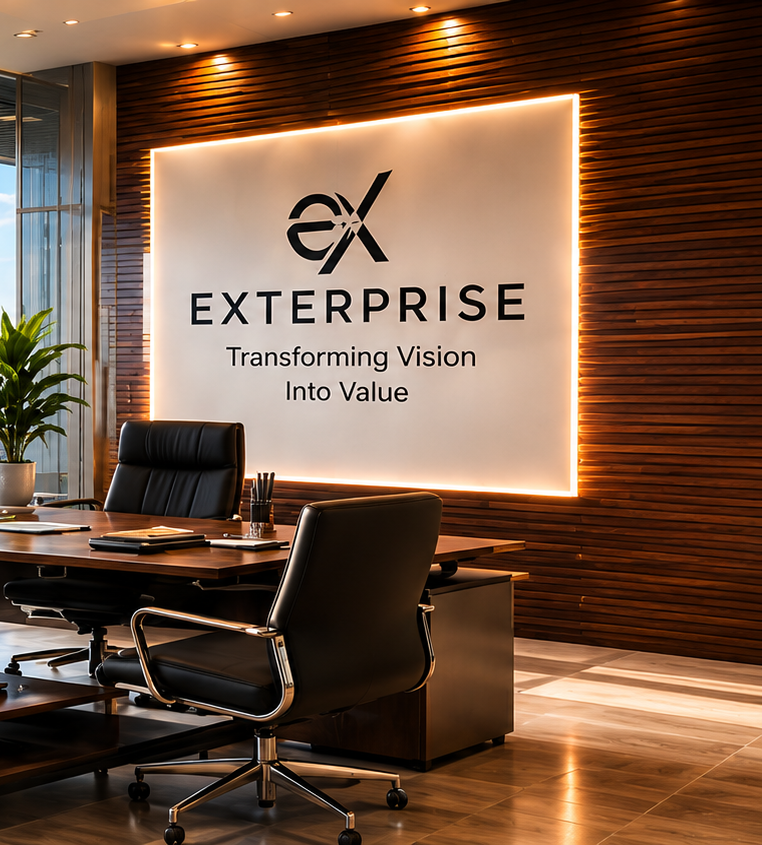
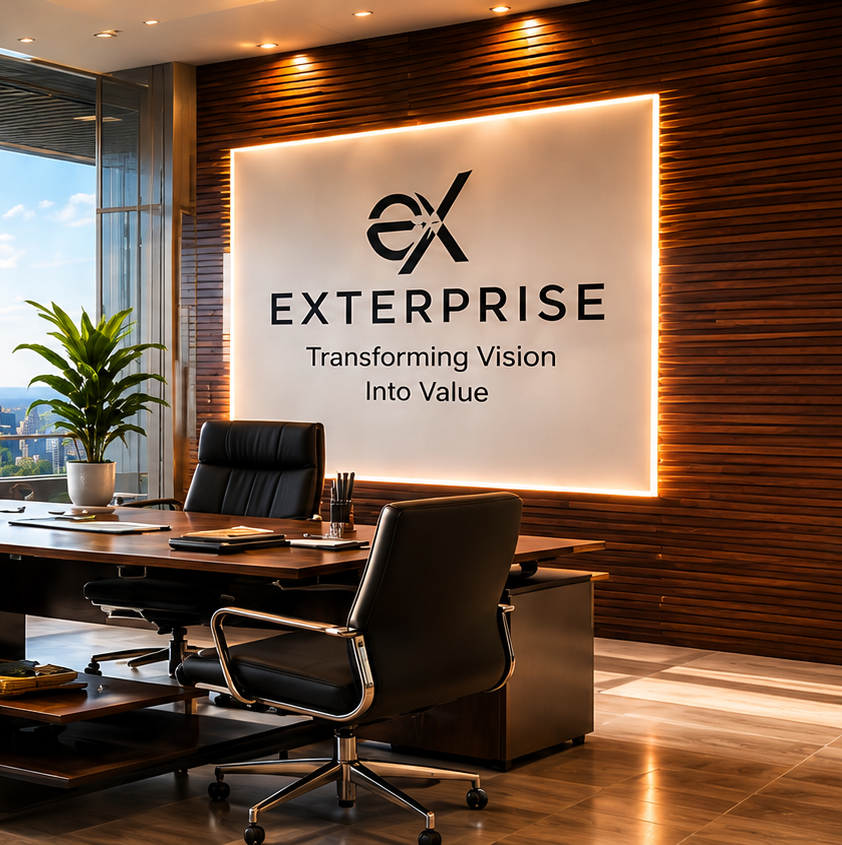
Update Entrepreneurship section to align pixel-perfectly with design mockup

diff --git a/src/App.tsx b/src/App.tsx
@@ -295,86 +295,107 @@ function App() {
       </section>
 
       {/* Entrepreneurship Section */}
-      <section id="entrepreneurship" className="section" style={{ background: '#FAF8F5', padding: '80px 0' }}>
+      <section id="entrepreneurship" className="section" style={{ background: '#eee5db', padding: '80px 0' }}>
         <div className="container">
-          {/* Header */}
-          <div style={{ textAlign: 'center', marginBottom: '60px' }}>
-            <span className="section-tag" style={{ color: 'var(--accent-red)', fontSize: '12px', letterSpacing: '3px', display: 'block', marginBottom: '15px' }}>
-              VISION & LEADERSHIP
-            </span>
-            <h2 className="section-heading" style={{ fontSize: '42px', color: '#1a202c', fontFamily: 'Outfit, sans-serif', fontWeight: 700, margin: 0 }}>
-              Entrepreneurship
-            </h2>
-          </div>
-          
-          {/* Content Grid */}
-          <div style={{ display: 'grid', gridTemplateColumns: '1fr 1fr', gap: '70px', marginBottom: '60px' }}>
-            {/* Left column - first 3 items */}
-            <div style={{ display: 'flex', flexDirection: 'column', gap: '40px' }}>
-              <div style={{ display: 'flex', gap: '25px', alignItems: 'flex-start' }}>
-                <span style={{ color: 'var(--accent-red)', fontSize: '20px', lineHeight: '1', flexShrink: 0 }}>★</span>
-                <p style={{ color: '#1a202c', fontSize: '13px', lineHeight: '1.7', margin: 0, opacity: 0.9 }}>
-                  Founder & CEO of Exterprise Solutions - an award-winning enterprise technology firm helping businesses innovate, transform and grow.
-                </p>
-              </div>
+          <div className="ent-wrapper" style={{
+            display: 'flex',
+            background: '#fdfcf7',
+            border: '1px solid rgba(212, 175, 55, 0.3)',
+            boxShadow: '0 10px 30px rgba(0,0,0,0.05)',
+            borderRadius: '8px',
+            overflow: 'hidden'
+          }}>
+            {/* Left side text and details */}
+            <div className="ent-left" style={{ flex: '0 0 55%', padding: '40px', background: '#fdfcf7' }}>
+              <span className="section-tag" style={{ color: 'var(--accent-red)', fontSize: '11px', letterSpacing: '2px', display: 'block', marginBottom: '8px', textAlign: 'left' }}>VISION & LEADERSHIP</span>
+              <h2 className="section-heading" style={{ fontSize: '32px', color: '#0f2942', fontFamily: 'Outfit, sans-serif', fontWeight: '800', marginTop: '5px', marginBottom: '15px', textTransform: 'uppercase', textAlign: 'left' }}>Entrepreneurship</h2>
               
-              <div style={{ display: 'flex', gap: '25px', alignItems: 'flex-start' }}>
-                <span style={{ color: 'var(--accent-red)', fontSize: '20px', lineHeight: '1', flexShrink: 0 }}>★</span>
-                <p style={{ color: '#1a202c', fontSize: '13px', lineHeight: '1.7', margin: 0, opacity: 0.9 }}>
-                  Specializing in Digital Transformation, AI, Data & Analytics, Cloud, and Enterprise Solutions.
-                </p>
-              </div>
+              <div style={{ color: 'var(--accent-red)', margin: '5px 0 20px 0', borderBottom: '1px solid rgba(0,0,0,0.1)', paddingBottom: '10px', textAlign: 'left' }}>★</div>
               
-              <div style={{ display: 'flex', gap: '25px', alignItems: 'flex-start' }}>
-                <span style={{ color: 'var(--accent-red)', fontSize: '20px', lineHeight: '1', flexShrink: 0 }}>★</span>
-                <p style={{ color: '#1a202c', fontSize: '13px', lineHeight: '1.7', margin: 0, opacity: 0.9 }}>
-                  Trusted by global clients to deliver scalable, future-ready solutions.
-                </p>
-              </div>
-            </div>
-            
-            {/* Right column - next 3 items */}
-            <div style={{ display: 'flex', flexDirection: 'column', gap: '40px' }}>
-              <div style={{ display: 'flex', gap: '25px', alignItems: 'flex-start' }}>
-                <span style={{ color: 'var(--accent-red)', fontSize: '20px', lineHeight: '1', flexShrink: 0 }}>★</span>
-                <p style={{ color: '#1a202c', fontSize: '13px', lineHeight: '1.7', margin: 0, opacity: 0.9 }}>
-                  Presence across 3 Continents - North America, Asia, and Australia.
-                </p>
-              </div>
-              
-              <div style={{ display: 'flex', gap: '25px', alignItems: 'flex-start' }}>
-                <span style={{ color: 'var(--accent-red)', fontSize: '20px', lineHeight: '1', flexShrink: 0 }}>★</span>
-                <p style={{ color: '#1a202c', fontSize: '13px', lineHeight: '1.7', margin: 0, opacity: 0.9 }}>
-                  Supporting communities and people through mentorship, employment, and philanthropy.
-                </p>
-              </div>
-              
-              <div style={{ display: 'flex', gap: '25px', alignItems: 'flex-start' }}>
-                <span style={{ color: 'var(--accent-red)', fontSize: '20px', lineHeight: '1', flexShrink: 0 }}>★</span>
-                <p style={{ color: '#1a202c', fontSize: '13px', lineHeight: '1.7', margin: 0, opacity: 0.9 }}>
-                  Believing in giving back and creating opportunities for all.
-                </p>
-              </div>
-            </div>
-          </div>
-          
-          {/* Map and Office Row */}
-          <div style={{ display: 'grid', gridTemplateColumns: '1fr 1fr', gap: '40px', alignItems: 'center' }}>
-            {/* Left: Map */}
-            <div>
-              <p style={{ fontSize: '13px', textTransform: 'uppercase', letterSpacing: '3px', color: '#1a202c', fontWeight: 'bold', marginBottom: '20px', textAlign: 'center', fontFamily: 'Montserrat, sans-serif' }}>
-                PRESENCE ACROSS 3 CONTINENTS
+              <p style={{ color: '#0f2942', fontSize: '16px', fontWeight: '700', lineHeight: '1.6', marginBottom: '25px', textAlign: 'left', fontFamily: 'Outfit, sans-serif' }}>
+                Founder & CEO of Exterprise Solutions – an award-winning enterprise technology firm helping businesses innovate, transform and grow.
               </p>
-              <div style={{ position: 'relative' }}>
-                <img src="/assets/presence_map.png" alt="Exterprise Global Presence Map" style={{ width: '100%', display: 'block' }} />
+              
+              {/* Bullets & Map sub-row */}
+              <div className="ent-sub-row" style={{ display: 'flex', gap: '30px', alignItems: 'flex-start', textAlign: 'left' }}>
+                {/* Bullets */}
+                <div style={{ flex: '0 0 55%' }}>
+                  <ul style={{ listStyle: 'none', padding: 0, margin: 0, display: 'flex', flexDirection: 'column', gap: '15px' }}>
+                    <li style={{ display: 'flex', alignItems: 'flex-start', fontSize: '13px', lineHeight: '1.5', color: '#4a5568', fontWeight: '600' }}>
+                      <span style={{ display: 'inline-flex', alignItems: 'center', justifyContent: 'center', width: '16px', height: '16px', borderRadius: '50%', border: '1.5px solid #d4af37', color: '#d4af37', fontSize: '9px', marginRight: '12px', fontWeight: 'bold', flexShrink: 0, marginTop: '2px' }}>✓</span>
+                      Specializing in Digital Transformation, AI, Data & Analytics, Cloud, and Enterprise Solutions.
+                    </li>
+                    <li style={{ display: 'flex', alignItems: 'flex-start', fontSize: '13px', lineHeight: '1.5', color: '#4a5568', fontWeight: '600' }}>
+                      <span style={{ display: 'inline-flex', alignItems: 'center', justifyContent: 'center', width: '16px', height: '16px', borderRadius: '50%', border: '1.5px solid #d4af37', color: '#d4af37', fontSize: '9px', marginRight: '12px', fontWeight: 'bold', flexShrink: 0, marginTop: '2px' }}>✓</span>
+                      Trusted by global clients to deliver scalable, future-ready solutions.
+                    </li>
+                    <li style={{ display: 'flex', alignItems: 'flex-start', fontSize: '13px', lineHeight: '1.5', color: '#4a5568', fontWeight: '600' }}>
+                      <span style={{ display: 'inline-flex', alignItems: 'center', justifyContent: 'center', width: '16px', height: '16px', borderRadius: '50%', border: '1.5px solid #d4af37', color: '#d4af37', fontSize: '9px', marginRight: '12px', fontWeight: 'bold', flexShrink: 0, marginTop: '2px' }}>✓</span>
+                      Presence across 3 Continents – North America, Asia, and Australia.
+                    </li>
+                    <li style={{ display: 'flex', alignItems: 'flex-start', fontSize: '13px', lineHeight: '1.5', color: '#4a5568', fontWeight: '600' }}>
+                      <span style={{ display: 'inline-flex', alignItems: 'center', justifyContent: 'center', width: '16px', height: '16px', borderRadius: '50%', border: '1.5px solid #d4af37', color: '#d4af37', fontSize: '9px', marginRight: '12px', fontWeight: 'bold', flexShrink: 0, marginTop: '2px' }}>✓</span>
+                      Supporting communities and people through mentorship, employment, and philanthropy.
+                    </li>
+                    <li style={{ display: 'flex', alignItems: 'flex-start', fontSize: '13px', lineHeight: '1.5', color: '#4a5568', fontWeight: '600' }}>
+                      <span style={{ display: 'inline-flex', alignItems: 'center', justifyContent: 'center', width: '16px', height: '16px', borderRadius: '50%', border: '1.5px solid #d4af37', color: '#d4af37', fontSize: '9px', marginRight: '12px', fontWeight: 'bold', flexShrink: 0, marginTop: '2px' }}>✓</span>
+                      Believing in giving back and creating opportunities for all.
+                    </li>
+                  </ul>
+                </div>
+                
+                {/* Map illustration */}
+                <div style={{ flex: '0 0 45%', display: 'flex', flexDirection: 'column', alignItems: 'center', paddingLeft: '10px', borderLeft: '1px solid rgba(0,0,0,0.05)' }}>
+                  <span style={{ fontSize: '9px', textTransform: 'uppercase', letterSpacing: '2px', color: '#0f2942', fontWeight: 'bold', marginBottom: '4px' }}>Presence Across</span>
+                  <span style={{ fontSize: '11px', textTransform: 'uppercase', letterSpacing: '3px', color: '#c41e3a', fontWeight: '800', marginBottom: '10px' }}>3 Continents</span>
+                  <img src="/assets/presence_map.png" alt="Exterprise Global Presence Map" style={{ width: '100%', maxWidth: '240px', display: 'block', opacity: '0.85' }} />
+                  <div style={{ display: 'flex', justifyContent: 'center', gap: '8px', fontSize: '8px', textTransform: 'uppercase', letterSpacing: '1px', color: '#666', fontWeight: 'bold', marginTop: '10px' }}>
+                    <span>North America</span>
+                    <span style={{ color: '#d4af37' }}>|</span>
+                    <span>Asia</span>
+                    <span style={{ color: '#d4af37' }}>|</span>
+                    <span>Australia</span>
+                  </div>
+                </div>
+              </div>
+              
+              {/* Stats Box at the bottom */}
+              <div className="ent-stats-box" style={{ 
+                border: '1.5px solid rgba(212, 175, 55, 0.4)', 
+                borderRadius: '8px', 
+                background: '#fdfcf7', 
+                padding: '20px', 
+                marginTop: '35px',
+                display: 'grid',
+                gridTemplateColumns: 'repeat(5, 1fr)',
+                gap: '10px'
+              }}>
+                <div style={{ textAlign: 'center', borderRight: '1px solid rgba(212,175,55,0.2)' }}>
+                  <h4 style={{ fontSize: '26px', color: '#0f2942', fontWeight: '800', margin: '0', fontFamily: 'Outfit, sans-serif' }}>25+</h4>
+                  <p style={{ fontSize: '8px', textTransform: 'uppercase', color: '#666', letterSpacing: '1px', fontWeight: 'bold', margin: '5px 0 0 0' }}>Years of Leadership</p>
+                </div>
+                <div style={{ textAlign: 'center', borderRight: '1px solid rgba(212,175,55,0.2)' }}>
+                  <h4 style={{ fontSize: '26px', color: '#0f2942', fontWeight: '800', margin: '0', fontFamily: 'Outfit, sans-serif' }}>500+</h4>
+                  <p style={{ fontSize: '8px', textTransform: 'uppercase', color: '#666', letterSpacing: '1px', fontWeight: 'bold', margin: '5px 0 0 0' }}>Successful Projects</p>
+                </div>
+                <div style={{ textAlign: 'center', borderRight: '1px solid rgba(212,175,55,0.2)' }}>
+                  <h4 style={{ fontSize: '26px', color: '#0f2942', fontWeight: '800', margin: '0', fontFamily: 'Outfit, sans-serif' }}>100+</h4>
+                  <p style={{ fontSize: '8px', textTransform: 'uppercase', color: '#666', letterSpacing: '1px', fontWeight: 'bold', margin: '5px 0 0 0' }}>Happy Clients</p>
+                </div>
+                <div style={{ textAlign: 'center', borderRight: '1px solid rgba(212,175,55,0.2)' }}>
+                  <h4 style={{ fontSize: '26px', color: '#0f2942', fontWeight: '800', margin: '0', fontFamily: 'Outfit, sans-serif' }}>3</h4>
+                  <p style={{ fontSize: '8px', textTransform: 'uppercase', color: '#666', letterSpacing: '1px', fontWeight: 'bold', margin: '5px 0 0 0' }}>Continents Presence</p>
+                </div>
+                <div style={{ textAlign: 'center' }}>
+                  <h4 style={{ fontSize: '26px', color: '#0f2942', fontWeight: '800', margin: '0', fontFamily: 'Outfit, sans-serif' }}>1</h4>
+                  <p style={{ fontSize: '8px', textTransform: 'uppercase', color: '#666', letterSpacing: '1px', fontWeight: 'bold', margin: '5px 0 0 0' }}>Mission: People First</p>
+                </div>
               </div>
             </div>
             
-            {/* Right: Office Image */}
-            <div>
-              <div className="img-frame" style={{ borderWidth: '4px', borderColor: 'var(--gold)', boxShadow: '0 12px 36px rgba(0,0,0,0.15)', borderRadius: '8px', overflow: 'hidden', background: '#fff' }}>
-                <img src="/assets/entrepreneurship_office.png" alt="Office Workspace" style={{ width: '100%', display: 'block' }} />
-              </div>
+            {/* Right side single office workspace skyline image */}
+            <div className="ent-right" style={{ flex: '0 0 45%', minHeight: '450px' }}>
+              <img src="/assets/entrepreneurship_office.png" alt="Office Workspace" style={{ width: '100%', height: '100%', objectFit: 'cover', display: 'block' }} />
             </div>
           </div>
         </div>

diff --git a/src/index.css b/src/index.css
@@ -1081,4 +1081,22 @@ textarea.form-input-overlay {
   }
 }
 
+/* Entrepreneurship layout sub-row responsiveness */
+.ent-sub-row {
+  display: flex;
+  gap: 30px;
+  align-items: flex-start;
+}
+
+@media (max-width: 900px) {
+  .ent-sub-row {
+    flex-direction: column;
+    align-items: center;
+  }
+  .ent-sub-row > div {
+    flex: 0 0 100% !important;
+    width: 100%;
+  }
+}
+
 